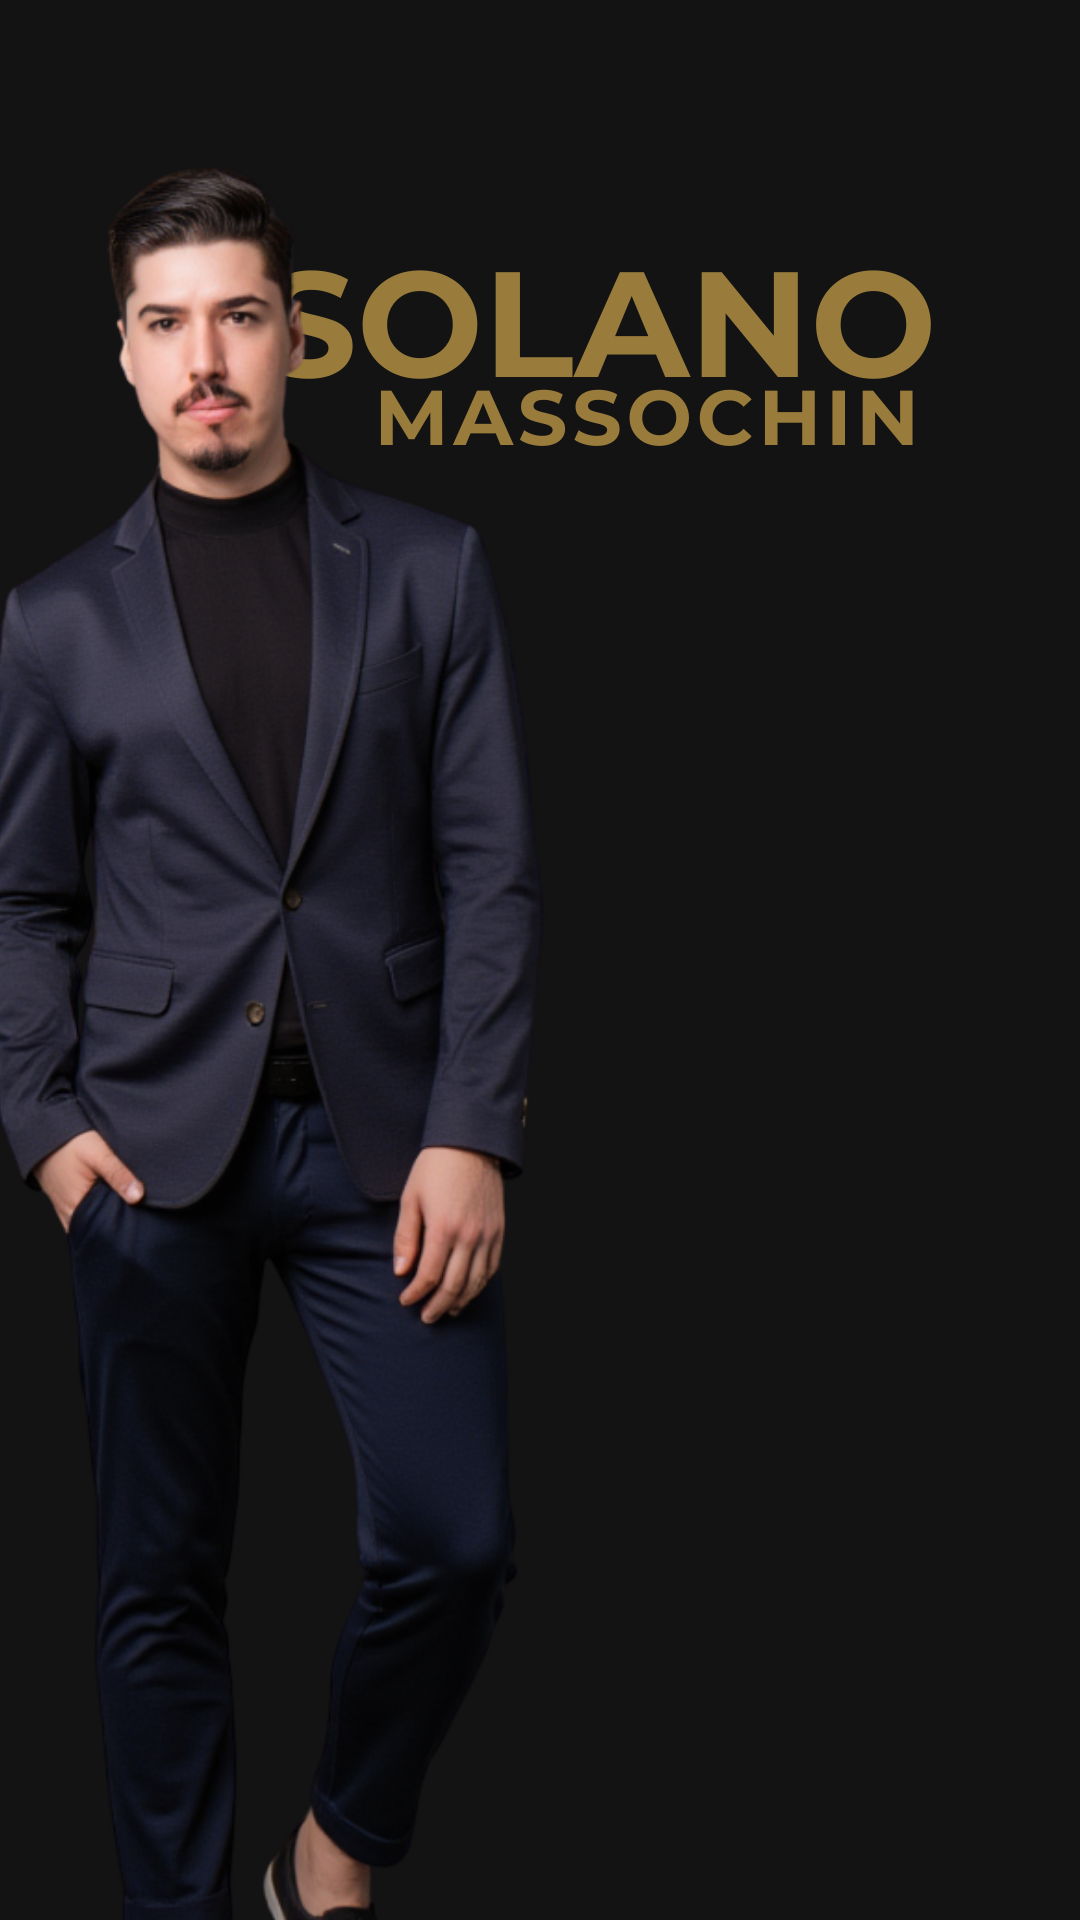
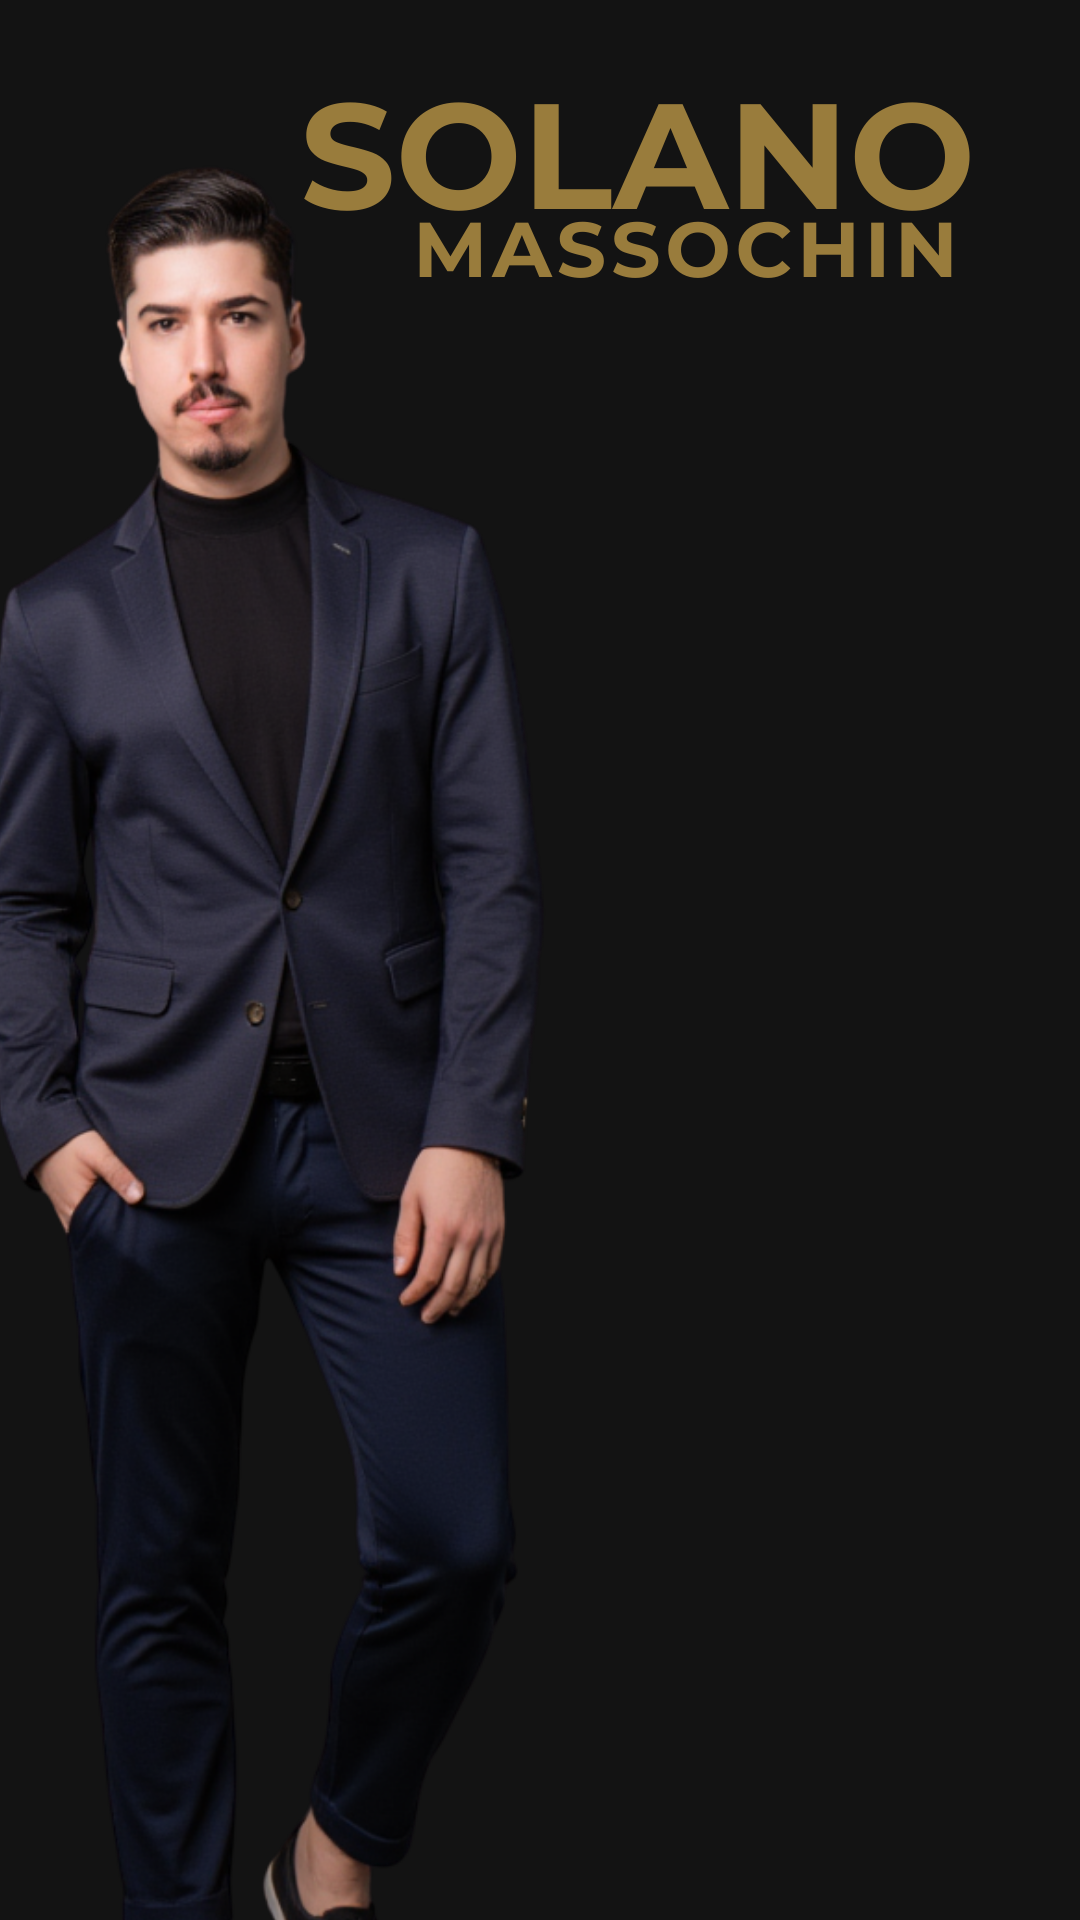
Solano section

Changed region(s): [[0.275, 0.0312, 0.9167, 0.25]]

diff --git a/src/components/MentorsSectionSol.tsx b/src/components/MentorsSectionSol.tsx
@@ -1,60 +1,101 @@
 import { useState } from "react";
 import { Button } from "@/components/ui/button";
 import DiagnosticModal from "@/components/DiagnosticModal";
-import background2 from "@/assets/background2.png";
+import background2 from "@/assets/backgroundMobile/10.png";
+import backgroundMobile from "@/assets/backgroundMobile/8.png";
 
 const MentorsSectionSol = () => {
   const [isModalOpen, setIsModalOpen] = useState(false);
 
   return (
     <>
+      {/* Section Title - global */}
       <section
-        className="relative px-4 md:px-6 lg:px-[100px] font-geist min-h-[400px] md:min-h-[878px] bg-[#FDF8ED] md:bg-cover md:bg-center md:bg-no-repeat"
-        style={{
-          backgroundImage: `url(${background2})`,
-        }}
+        className="relative px-4 md:px-6 lg:px-[100px] font-geist 
+        min-h-[700px] md:min-h-[878px] bg-cover bg-center bg-no-repeat"
       >
-        {/* Hide background on mobile with overlay */}
-        <div className="absolute inset-0 bg-[#0E141B] md:hidden"></div>
-        <div className="w-full pt-8 md:pt-[83px] pb-8 md:pb-[96px] relative z-10">
-          <div className="w-full pt-[7px] flex flex-col gap-8">
-            {/* Section Title (sempre centralizado) */}
-            {/* Mentor Solano (colado mais à esquerda) */}
-            <div className="flex flex-col items-center text-center md:items-start md:text-left md:mr-auto md:pl-4 lg:pl-8 gap-8">
-              {/* Solano Massochin */}
-              <div className="flex flex-col gap-5 items-center text-center md:items-start md:text-left">
-                <div className="pb-[0.58px]">
-                  <h3 className="text-[#FFF] text-[24px] font-extrabold leading-[28.8px]">
-                    O Arquiteto da Tecnologia
-                  </h3>
-                </div>
+        {/* Background Mobile */}
+        <div
+          className="absolute inset-0 md:hidden bg-cover bg-center"
+          style={{ backgroundImage: `url(${backgroundMobile})` }}
+        ></div>
 
-                <div className="text-[#FFF] text-base font-medium leading-[24px] max-w-[480px]">
-                  O cérebro por trás da implementação. Solano desmistifica
-                  ferramentas, as IA’s e a tecnologia, mostrando como
-                  transformar complexidade em ferramentas simples e eficazes.
-                  Com ele, você entenderá o "como" e o "porquê" de cada
-                  automação, garantindo que sua imobiliária opere com a
-                  eficiência de uma máquina do futuro.
-                </div>
-              </div>
+        {/* Background Desktop */}
+        <div
+          className="absolute inset-0 hidden md:block bg-cover bg-center"
+          style={{ backgroundImage: `url(${background2})` }}
+        ></div>
 
-              {/* CTA Button (também à esquerda) */}
-            </div>
+        {/* Conteúdo */}
+        <div className="relative z-10 w-full pt-8 md:pt-[83px] pb-8 md:pb-[96px]">
+          <div
+            className="
+      flex flex-col gap-5 text-[#FFF]
+      text-center md:text-center
+      items-end md:items-center
+      w-full md:max-w-[540px]
+      ml-auto md:ml-0
+      mr-0 md:mr-auto
+      px-2 md:px-0
+      mt-[120px] md:mt-[120px]
+    "
+          >
+            <h2
+              className="
+        text-[16px] xs:text-[18px] sm:text-[20px] md:text-[28px] lg:text-[30px] 
+        font-bold 
+        leading-snug
+        text-hero-accent
+        max-w-[180px] xs:max-w-[220px] sm:max-w-[260px] md:max-w-[420px] lg:max-w-[500px]
+      "
+            >
+              O Arquiteto da Tecnologia
+            </h2>
+
+            <p
+              className="
+        text-sm xs:text-[15px] sm:text-base lg:text-lg
+        leading-relaxed 
+        font-medium
+        w-full
+        max-w-[180px] xs:max-w-[220px] sm:max-w-[260px] md:max-w-[400px] lg:max-w-[500px]
+      "
+            >
+              O cérebro por trás da implementação. Solano desmistifica
+              ferramentas, as IA’s e a tecnologia, mostrando como transformar
+              complexidade em ferramentas simples e eficazes.
+            </p>
+            <p
+              className="
+        text-sm xs:text-[15px] sm:text-base lg:text-lg
+        leading-relaxed 
+        font-medium
+        w-full
+        max-w-[180px] xs:max-w-[220px] sm:max-w-[260px] md:max-w-[400px] lg:max-w-[500px]
+      "
+            >
+              Com ele, você entenderá o "como" e o "porquê" de cada automação,
+              garantindo que sua imobiliária opere com a eficiência de uma
+              máquina do futuro.
+            </p>
           </div>
         </div>
-        <div className="w-full max-w-[360px] md:mr-auto">
+        <div className="w-full max-w-[360px] mx-auto mt-12 md:mt-32 lg:mt-40">
           <Button
             variant="hero"
             size="hero"
             className="
-                  w-full max-w-[360px] 
-                  whitespace-normal break-words text-center 
-                  px-3 py-0 text-xs   /* mobile */
-                  sm:px-4 sm:py-3 sm:text-xs   /* tablet */
-                  md:px-6 md:py-3 md:text-xs  /* desktop médio */
-                  lg:px-8 lg:py-4 lg:text-xs   /* desktop grande */
-                "
+      w-full max-w-[360px]
+      px-6 py-4
+      text-[16px] font-bold tracking-wide
+      flex flex-col items-center justify-center
+      rounded-full
+      text-black
+      bg-gradient-to-r from-[#CBA135] to-[#F5D78E]
+      transition-all duration-300 ease-in-out
+      hover:from-[#FFD85D] hover:to-[#FFF3C0]
+      hover:shadow-[0_0_20px_rgba(255,215,0,0.7)]
+    "
             onClick={() => setIsModalOpen(true)}
           >
             Quero aprender com Adel e Solano

diff --git a/src/components/SixthSection.tsx b/src/components/SixthSection.tsx
@@ -6,37 +6,42 @@ const SixthSection = () => {
   return (
     <>
       <section className="bg-hero-bg px-4 md:px-6 lg:px-[418px] font-geist">
-        <div className="max-w-[1060px] mx-auto py-20">
+        <div className="max-w-[1060px] mx-auto pb-20">
           {/* Main Title */}
-          {/* Main Title */}
-          <div className="text-center mb-2">
-            <h2 className="text-[26px] md:text-[32px] lg:text-4xl font-bold text-hero-text leading-snug">
-              A Arquitetura do Seu Lucro: <br className="block sm:hidden" />
-              Bônus e Preço
-            </h2>
+          <div className="w-full max-w-[1100px] mx-auto rounded-[30px] md:rounded-[50px] p-6 md:p-12 shadow-lg">
+            {/* Título */}
+
+            {/* Caixa interna da lista */}
+            <div className="bg-[#1A1F25] rounded-[25px] md:rounded-[40px] p-6 md:p-10 shadow-md w-full max-w-[950px] mx-auto">
+              <div className="text-center mb-6">
+                <h2 className="text-[26px] md:text-[32px] lg:text-4xl font-bold text-hero-text leading-snug pb-5">
+                  A Arquitetura do Seu Lucro: <br className="block sm:hidden" />
+                  Bônus e Preço
+                </h2>
+              </div>
+
+              <ul className="divide-y divide-hero-text/20 list-disc list-inside">
+                {[
+                  "Estratégia Detalhada de Captação 5X com IA",
+                  "Funil de Conversão Otimizado e Validado",
+                  "Modelo Estruturado de Gestão de Equipe de Alta Performance",
+                  "Ferramentas de Automação Validadas de Nutrição, Aquecimento para Vender 24h",
+                  "Estratégia de Expansão Inteligente para Domínio Regional",
+                  "Painel de Controle de Métricas Essenciais para Retorno Máximo",
+                  "Plano de Ação de 7 Dias Pós-Workshop",
+                  "Análise de Projeto Pessoal (Mesa Redonda)",
+                ].map((item, i) => (
+                  <li
+                    key={i}
+                    className="py-4 text-base md:text-lg lg:text-xl font-medium text-hero-text text-center sm:text-left"
+                  >
+                    {item}
+                  </li>
+                ))}
+              </ul>
+            </div>
           </div>
-          {/* Value Breakdown como lista */}
-          <div className="bg-hero-bg rounded-[25px] md:rounded-[40px] p-6 md:p-10 shadow-md w-full max-w-[950px] mx-auto">
-            <ul className="divide-y divide-hero-text/20 list-disc list-inside">
-              {[
-                "Estratégia Detalhada de Captação 5X com IA",
-                "Funil de Conversão Otimizado e Validado",
-                "Modelo Estruturado de Gestão de Equipe de Alta Performance",
-                "Ferramentas de Automação Validadas de Nutrição, Aquecimento para Vender 24h",
-                "Estratégia de Expansão Inteligente para Domínio Regional",
-                "Painel de Controle de Métricas Essenciais para Retorno Máximo",
-                "Plano de Ação de 7 Dias Pós-Workshop",
-                "Análise de Projeto Pessoal (Mesa Redonda)",
-              ].map((item, i) => (
-                <li
-                  key={i}
-                  className="py-4 text-base md:text-lg lg:text-xl font-medium text-hero-text text-center sm:text-left"
-                >
-                  {item}
-                </li>
-              ))}
-            </ul>
-          </div>
+
           {/* Special Offer */}
           <div className="text-center mb-2 mt-12">
             <h3 className="text-3xl md:text-4xl font-bold text-accent mb-6">

diff --git a/src/components/MentorsSection.tsx b/src/components/MentorsSection.tsx
@@ -1,6 +1,4 @@
 import { useState } from "react";
-import { Button } from "@/components/ui/button";
-import DiagnosticModal from "@/components/DiagnosticModal";
 import background from "@/assets/backgroundAdel.png";
 import backgroundMobile from "@/assets/backgroundMobile/72.png";
 
@@ -91,7 +89,7 @@ const MentorsSection = () => {
       leading-relaxed 
       font-medium
       w-full
-      max-w-[160px] xs:max-w-[200px] sm:max-w-[260px] md:max-w-[400px] lg:max-w-[500px]
+      max-w-[180px] xs:max-w-[220px] sm:max-w-[260px] md:max-w-[400px] lg:max-w-[500px]
     "
             >
               <span className="font-semibold text-hero-accent">
@@ -101,14 +99,10 @@ const MentorsSection = () => {
               e faturam. Ela vai te ensinar a ler o mercado como ninguém, usando
               sua percepção aguçada para antecipar movimentos.
             </p>
+           
           </div>
         </div>
       </section>
-
-      <DiagnosticModal
-        isOpen={isModalOpen}
-        onClose={() => setIsModalOpen(false)}
-      />
     </>
   );
 };
